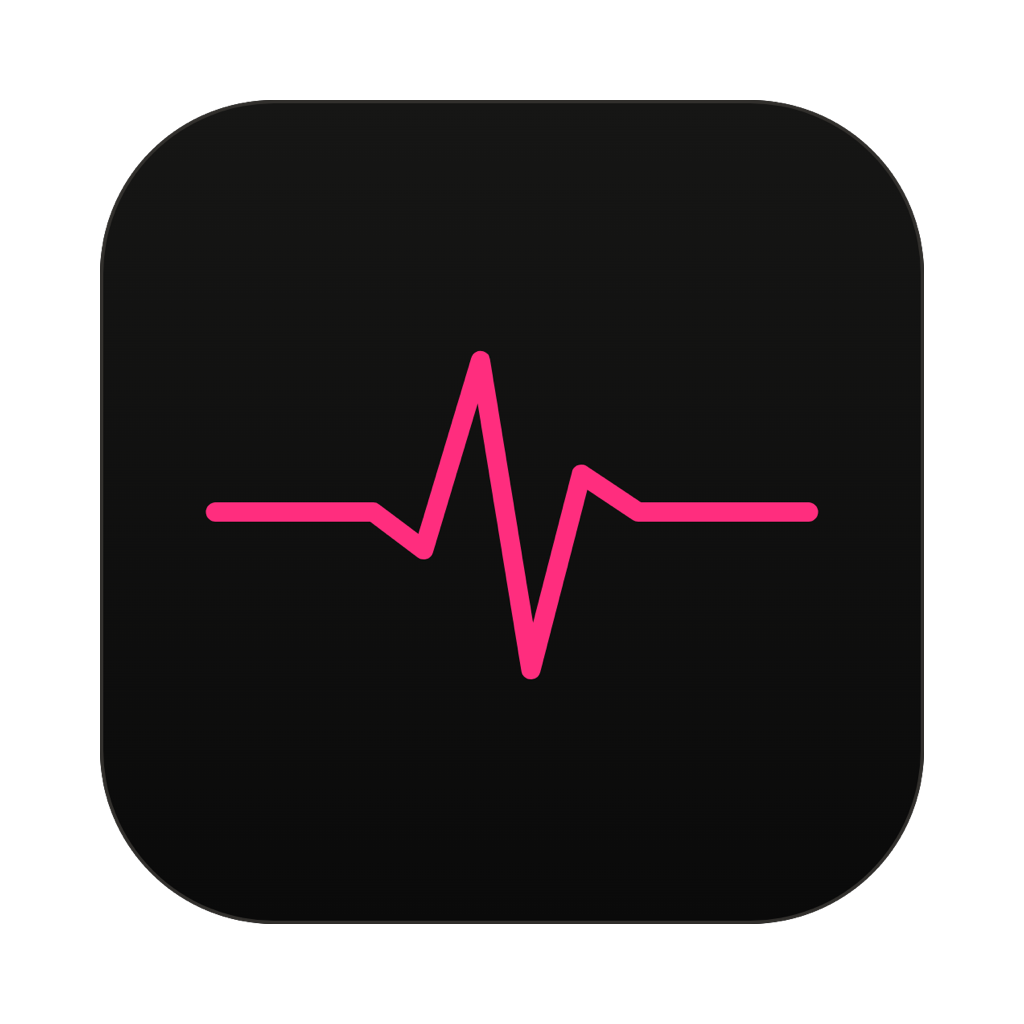
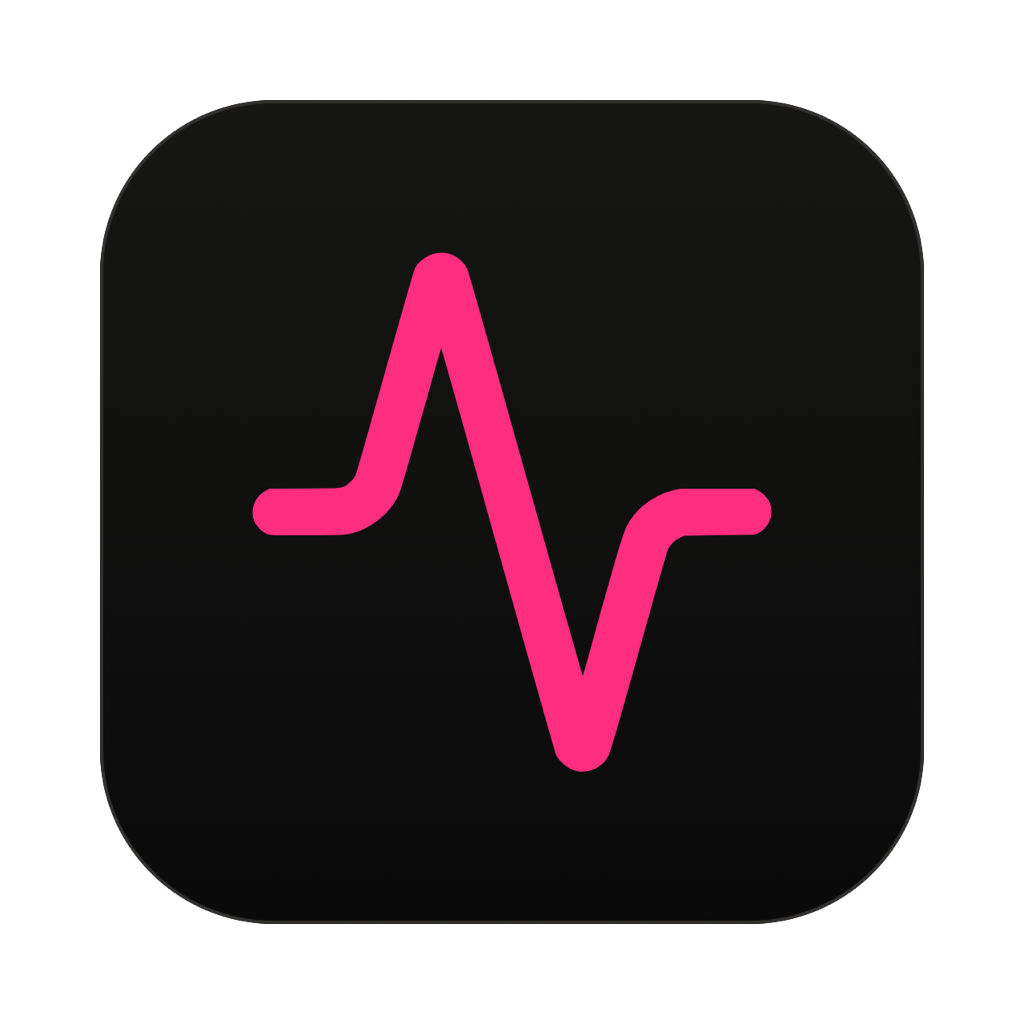
feat: adopt activity brand mark (#44)

Changed region(s): [[0.1875, 0.25, 0.8125, 0.75]]

diff --git a/crates/pulse-app/src/shell.rs b/crates/pulse-app/src/shell.rs
@@ -1722,7 +1722,7 @@ fn settings_app_mark() -> impl IntoElement {
         ))
         .child(
             svg()
-                .path("icons/pulse-mark.svg")
+                .path("icons/activity.svg")
                 .size(px(22.))
                 .text_color(theme::accent()),
         )
@@ -1761,7 +1761,7 @@ fn render_brand() -> impl IntoElement {
                 .flex_none()
                 .child(
                     svg()
-                        .path("icons/pulse-mark.svg")
+                        .path("icons/activity.svg")
                         .size(px(24.))
                         .text_color(theme::accent()),
                 ),

diff --git a/crates/pulse-app/src/assets.rs b/crates/pulse-app/src/assets.rs
@@ -24,7 +24,7 @@ const ASSETS: &[(&str, &[u8])] = assets![
     "icons/volume-x.svg",
     "icons/speaker.svg",
     "icons/list-music.svg",
-    "icons/pulse-mark.svg",
+    "icons/activity.svg",
     "icons/library.svg",
     "icons/music.svg",
     "icons/database.svg",
